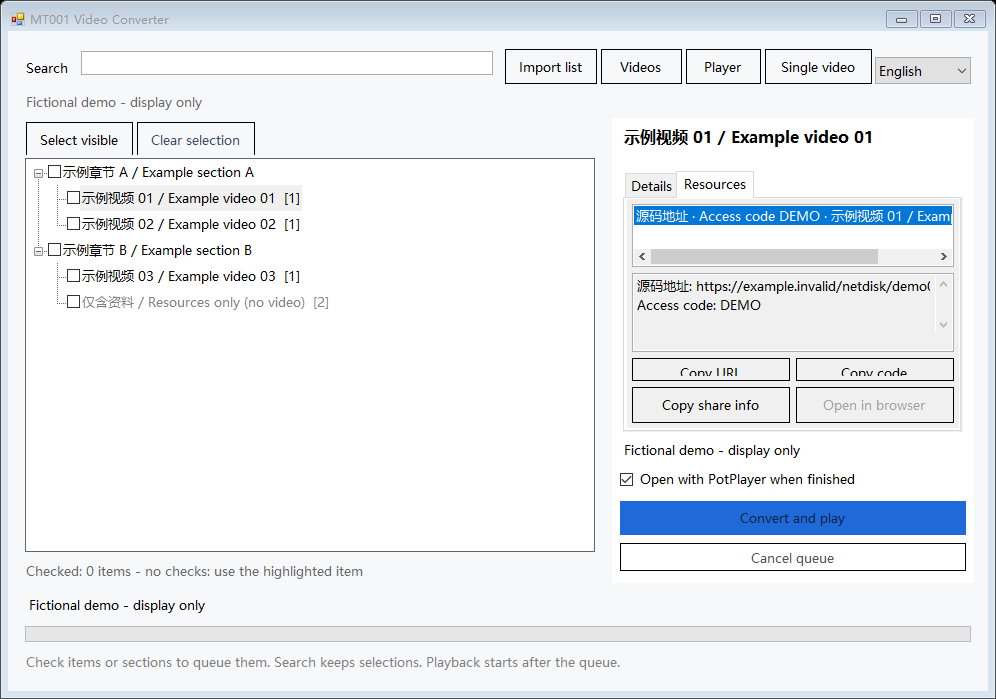
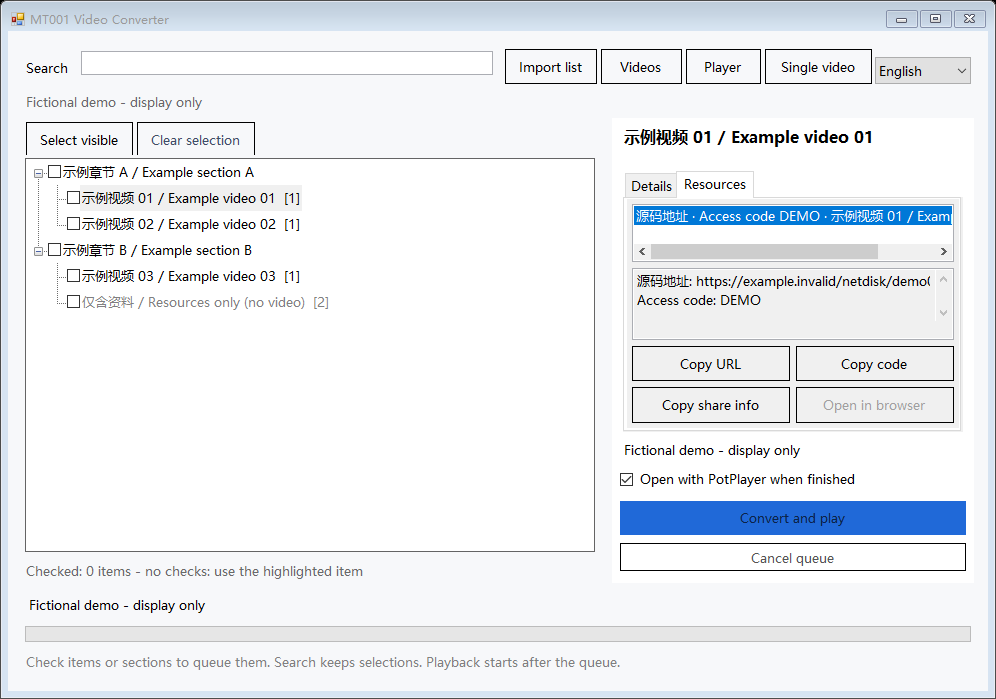
Fix resource button sizing, persist language choice and package portable release

Changed region(s): [[0.6225, 0.3305, 0.9649, 0.4506], [0.6225, 0.4807, 0.9649, 0.5408]]

diff --git a/src/CourseTests.cs b/src/CourseTests.cs
@@ -401,10 +401,16 @@ public static class CourseTests
                     Check(form.CourseTree.Nodes[0].Text.StartsWith("测试章节"), "Input titles translated");
                     foreach (int width in new[] { 980, 760 })
                     {
+                        var tabs = (TabControl)form.ResourceView.Parent.Parent; tabs.SelectedTab = (TabPage)form.ResourceView.Parent;
                         form.Size = new Size(width, width == 980 ? 660 : 520); form.PerformLayout(); Application.DoEvents();
                         Check(form.SearchBox.Width > 25 && form.SingleVideoButton.Right <= form.SingleVideoButton.Parent.ClientSize.Width, "Toolbar clipping");
+                        foreach (Button button in new[] { form.ResourceView.CopyUrl, form.ResourceView.CopyCode, form.ResourceView.CopyShare, form.ResourceView.OpenLink })
+                            Check(button.ClientSize.Height >= TextRenderer.MeasureText(button.Text, button.Font).Height + 8, "Resource button text clipped: " + button.Text);
+                        Check(form.ResourceView.CopyUrl.Bottom <= form.ResourceView.CopyShare.Top, "Resource button rows overlap");
                         using (var bitmap = new Bitmap(form.Width, form.Height)) { form.DrawToBitmap(bitmap, new Rectangle(0, 0, form.Width, form.Height)); bitmap.Save(Path.Combine(Work, "layout-" + choice + "-" + width + ".png")); }
                     }
+                    form.LanguageBox.SelectedIndex = choice == "en" ? 0 : 1;
+                    Check(form.LanguageRestartRequested && AppConfig.Load(uiRoot).Language == (choice == "en" ? "zh" : "en"), "Language selection was not persisted");
                 }
                 L.English = choice == "en";
                 using (var form = new SingleVideoForm(Root)) { form.Location = new Point(-20000, -20000); form.ShowInTaskbar = false; form.Show(); Check(form.Start.Text == (choice == "en" ? "Start" : "开始转换"), "Single video not localized"); }
@@ -413,14 +419,14 @@ public static class CourseTests
         L.English = false;
         Run("single-video UI conversion, validation and explicit overwrite rejection", delegate
         {
-            var fixture = new Fixture(FixtureFolder, new byte[16]);
-            using (var form = new SingleVideoForm(Root, (output, ffmpeg) => Engine(fixture, output)))
+            var fixture = new Fixture(FixtureFolder, new byte[16]); string app = Path.Combine(Work, "single-app"); Directory.CreateDirectory(app);
+            using (var form = new SingleVideoForm(app, (output, ffmpeg) => Engine(fixture, output)))
             {
                 form.StartPosition = FormStartPosition.Manual; form.Location = new Point(-20000, -20000); form.ShowInTaskbar = false; form.Show();
                 int notices = 0; form.NotificationOverride = text => notices++; form.Address.Text = "https://example.invalid/demo.m3u8"; form.Output.Text = Path.Combine(Work, "single", "示例 video.mp4");
                 SynchronizationContext.SetSynchronizationContext(new WindowsFormsSynchronizationContext()); Pump(form.StartAsync()); Check(notices == 1 && !File.Exists(form.Output.Text), "Demo accepted by single video");
                 form.Address.Text = "https://fixture.test/index.m3u8"; form.Key.Text = "00000000000000000000000000000000";
-                SynchronizationContext.SetSynchronizationContext(new WindowsFormsSynchronizationContext()); Pump(form.StartAsync()); Check(File.Exists(form.Output.Text) && form.Progress.Value == 100 && form.Key.Text == "", "Single-video UI failed");
+                SynchronizationContext.SetSynchronizationContext(new WindowsFormsSynchronizationContext()); Pump(form.StartAsync()); Check(File.Exists(form.Output.Text) && form.Progress.Value == 100 && !File.Exists(Path.Combine(app, "settings.json")), "Single-video UI failed or input was persisted");
                 long calls = ConversionEngine.FetchRequestCount; form.OverwriteOverride = () => false;
                 SynchronizationContext.SetSynchronizationContext(new WindowsFormsSynchronizationContext()); Pump(form.StartAsync()); Check(ConversionEngine.FetchRequestCount == calls, "Rejected overwrite started download");
             }

diff --git a/src/ResourcesPanel.cs b/src/ResourcesPanel.cs
@@ -21,24 +21,35 @@ namespace CourseStudy
             public override string ToString() { return Link + " · " + Owner; }
         }
         private readonly IResourceActions actions;
+        private readonly TableLayoutPanel table, buttons;
         public readonly ListBox Items = new ListBox();
         public readonly TextBox Preview = new TextBox();
         public readonly Button CopyUrl = new Button(), CopyCode = new Button(), CopyShare = new Button(), OpenLink = new Button();
         public ResourcesPanel(IResourceActions resourceActions = null)
         {
-            actions = resourceActions ?? new ResourceActions(); Dock = DockStyle.Fill;
-            var table = new TableLayoutPanel { Dock = DockStyle.Fill, ColumnCount = 1, RowCount = 3, Padding = new Padding(2) };
+            actions = resourceActions ?? new ResourceActions(); Dock = DockStyle.Fill; AutoScroll = true;
+            table = new TableLayoutPanel { Dock = DockStyle.Top, ColumnCount = 1, RowCount = 3, Padding = new Padding(2), Height = 260 };
             table.RowStyles.Add(new RowStyle(SizeType.Percent, 45)); table.RowStyles.Add(new RowStyle(SizeType.Percent, 55)); table.RowStyles.Add(new RowStyle(SizeType.Absolute, 70));
             Items.Dock = DockStyle.Fill; Items.HorizontalScrollbar = true; Items.IntegralHeight = false; table.Controls.Add(Items, 0, 0);
             Preview.Dock = DockStyle.Fill; Preview.Multiline = true; Preview.ReadOnly = true; Preview.ScrollBars = ScrollBars.Both; Preview.WordWrap = false; table.Controls.Add(Preview, 0, 1);
-            var buttons = new TableLayoutPanel { Dock = DockStyle.Fill, ColumnCount = 2, RowCount = 2, Margin = Padding.Empty };
+            buttons = new TableLayoutPanel { Dock = DockStyle.Fill, ColumnCount = 2, RowCount = 2, Margin = Padding.Empty };
             buttons.ColumnStyles.Add(new ColumnStyle(SizeType.Percent, 50)); buttons.ColumnStyles.Add(new ColumnStyle(SizeType.Percent, 50));
+            buttons.RowStyles.Add(new RowStyle(SizeType.Percent, 50)); buttons.RowStyles.Add(new RowStyle(SizeType.Percent, 50));
             int n = 0; foreach (var pair in new[] { Tuple.Create(CopyUrl, "复制地址"), Tuple.Create(CopyCode, "复制提取码"), Tuple.Create(CopyShare, "复制分享信息"), Tuple.Create(OpenLink, "浏览器打开") })
-            { pair.Item1.Text = L.T(pair.Item2); pair.Item1.Dock = DockStyle.Fill; pair.Item1.FlatStyle = FlatStyle.Flat; buttons.Controls.Add(pair.Item1, n % 2, n / 2); n++; }
+            { pair.Item1.Text = L.T(pair.Item2); pair.Item1.Dock = DockStyle.Fill; pair.Item1.FlatStyle = FlatStyle.Flat; pair.Item1.MinimumSize = new Size(0, 32); buttons.Controls.Add(pair.Item1, n % 2, n / 2); n++; }
             table.Controls.Add(buttons, 0, 2); Controls.Add(table);
             Items.SelectedIndexChanged += delegate { RefreshItem(); };
+            SizeChanged += delegate { SizeTable(); }; FontChanged += delegate { SizeTable(); };
             CopyUrl.Click += delegate { Act(false, r => r.Url); }; CopyCode.Click += delegate { Act(false, r => r.Code); }; CopyShare.Click += delegate { Act(false, r => r.ShareText); }; OpenLink.Click += delegate { Act(true, r => r.Url); };
-            RefreshItem();
+            RefreshItem(); SizeTable();
+        }
+        private void SizeTable()
+        {
+            int rowHeight = buttons.Controls.Cast<Control>().Max(button => TextRenderer.MeasureText(button.Text, button.Font).Height + button.Margin.Vertical + 16);
+            table.RowStyles[2].Height = rowHeight * 2;
+            int minimum = rowHeight * 2 + Math.Max(120, Font.Height * 7);
+            int height = Math.Max(minimum, ClientSize.Height - Padding.Vertical);
+            if (table.Height != height) table.Height = height;
         }
         public void LoadNode(CatalogNode node)
         {

diff --git a/src/SingleVideoForm.cs b/src/SingleVideoForm.cs
@@ -52,6 +52,7 @@ namespace CourseStudy
                 if (!closingAfterCancel && MessageBox.Show(this, L.T("当前视频还在转换。取消并关闭吗？缓存会保留。"), Text, MessageBoxButtons.YesNo, MessageBoxIcon.Question) == DialogResult.Yes)
                 { closingAfterCancel = true; cancellation.Cancel(); }
             };
+            FormClosed += delegate { Key.Clear(); Address.Clear(); };
         }
         private void Browse(object sender, EventArgs e)
         { using (var dialog = new SaveFileDialog { Filter = "MP4 (*.mp4)|*.mp4", FileName = "video.mp4", OverwritePrompt = false }) if (dialog.ShowDialog(this) == DialogResult.OK) Output.Text = dialog.FileName; }
@@ -97,7 +98,7 @@ namespace CourseStudy
             catch (Exception ex) { status.Text = L.T("转换失败，可重试"); Notice(Files.Redact(ex.Message)); }
             finally
             {
-                receiving = false; cancellation.Dispose(); cancellation = null; Key.Clear();
+                receiving = false; cancellation.Dispose(); cancellation = null;
                 Start.Enabled = Address.Enabled = Key.Enabled = Output.Enabled = browse.Enabled = true; CancelJob.Enabled = false;
                 if (closingAfterCancel) Close();
             }

diff --git a/src/CourseUi.cs b/src/CourseUi.cs
@@ -272,7 +272,7 @@ namespace CourseStudy
             Lesson[] queue = QueueLessons(); if (queue.Length == 0) return;
             bool autoPlay = AutoPlayBox.Checked;
             if (autoPlay && !File.Exists(config.PotPlayerPath) && !SelectPlayer()) return;
-            job = new CancellationTokenSource(); SetBusy(true); state.Text = "正在处理当前课程…"; JobProgress.Value = 0;
+            job = new CancellationTokenSource(); SetBusy(true); state.Text = L.T("正在处理当前课程…"); JobProgress.Value = 0;
             CancellationToken token = job.Token;
             var completed = new List<string>(); var failures = new List<string>(); var successful = new HashSet<string>();
             int currentItem = 0, completedItems = 0; bool acceptingProgress = false, cancelled = false; string warning = null;
